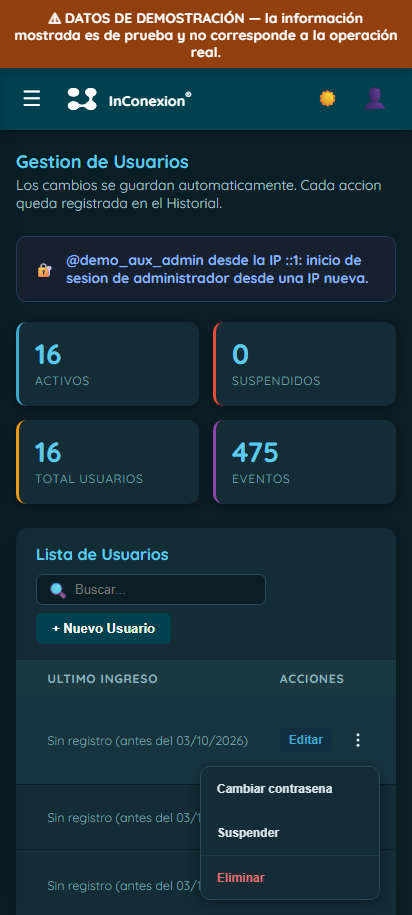
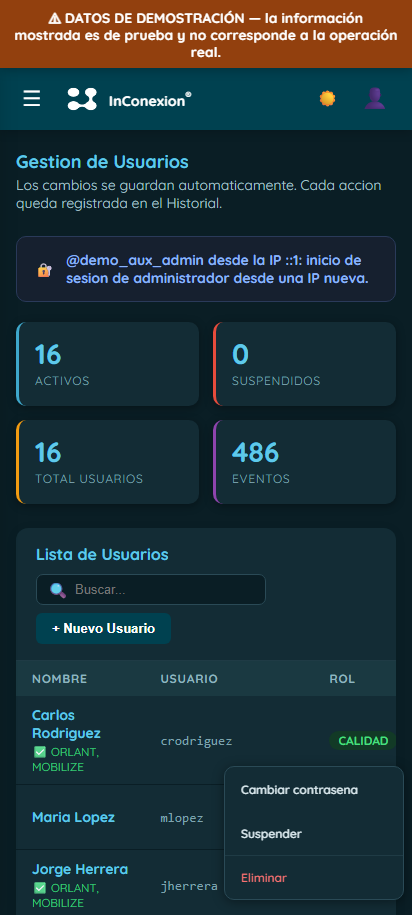
Fase 137 (Parte B, F07): 2 retoques del "OK F07"
1) .row-actions-menu-item gana font-family:inherit -- sin esto, un
<button> toma la fuente por defecto del navegador, no Quicksand (se
notaba en las capturas, texto en otra letra y mas grueso que el resto
de la interfaz).

2) El menu (position:fixed, calculado UNA vez contra el boton al
abrirse) se cierra al hacer scroll de la pagina/.table-wrap o al
redimensionar la ventana -- si no, se queda flotando lejos de su fila
real. Nueva prueba que falla sin el cambio (confirmado con git stash:
corre en rojo contra el row-actions.js de antes, en verde con el
fix).

Hallazgo real al recapturar en movil: el fix de (2) cerraba el menu
que se acababa de abrir, porque enfocar el primer item disparaba el
scroll-para-revelar del navegador sobre .table-wrap (el item sigue
viviendo en el DOM ahi, aunque el menu se vea en otro lugar via
position:fixed) -- el propio listener nuevo atrapaba ese scroll y
cerraba el menu en el mismo instante. Corregido con
{preventScroll:true} en todos los .focus() de este archivo.

Confirmado ademas que un clic real (sin el scrollIntoViewIfNeeded
previo que SOLO hace Playwright antes de un clic automatizado, un
clic humano real nunca lo hace) nunca dispara ese problema -- un
script de diagnostico aparte lo probo clic por clic.

9 capturas recapturadas (claro/oscuro x escritorio/movil, menu
abierto) -- revisadas una por una, letra consistente con el resto de
la interfaz. 18 pruebas en verde (1 nueva de scroll/resize).
[…]

diff --git a/public/js/row-actions.js b/public/js/row-actions.js
@@ -56,14 +56,24 @@ function rowActionsAbrir(boton) {
   ROW_ACTIONS_ABIERTO = { menu: menu, boton: boton };
 }
 
+// {preventScroll:true} en TODOS los .focus() de este archivo (hallazgo
+// real al re-capturar el "OK F07" en movil, con el fix de cerrar en
+// scroll ya puesto): el menu es position:fixed, ya esta bien
+// posicionado en pantalla -- pero su HIJO real sigue viviendo en el DOM
+// dentro de .table-wrap (que tiene su propio scroll horizontal). Sin
+// preventScroll, el navegador intenta "revelar" el elemento recien
+// enfocado desplazando .table-wrap (aunque ya se vea bien, fijo, en
+// otro lugar de la pantalla) -- ese scroll disparaba el listener nuevo
+// de scroll/resize y cerraba el menu que se acababa de abrir y
+// enfocar, en el mismo instante.
 function rowActionsEnfocarPrimero(menu) {
   var item = menu.querySelector ? menu.querySelector('[role="menuitem"]') : null;
-  if (item && item.focus) item.focus();
+  if (item && item.focus) item.focus({ preventScroll: true });
 }
 function rowActionsEnfocarUltimo(menu) {
   var items = menu.querySelectorAll ? menu.querySelectorAll('[role="menuitem"]') : [];
   var last = items[items.length - 1];
-  if (last && last.focus) last.focus();
+  if (last && last.focus) last.focus({ preventScroll: true });
 }
 
 // Clic en el boton kebab: si su menu ya esta abierto, actua como cierre
@@ -101,11 +111,11 @@ function rowActionsTecladoMenu(e, menu) {
   if (k === 'ArrowDown' || k === 'Down') {
     if (e.preventDefault) e.preventDefault();
     var next = items[(idx + 1 + items.length) % items.length];
-    if (next) next.focus();
+    if (next) next.focus({ preventScroll: true });
   } else if (k === 'ArrowUp' || k === 'Up') {
     if (e.preventDefault) e.preventDefault();
     var prev = items[(idx - 1 + items.length) % items.length];
-    if (prev) prev.focus();
+    if (prev) prev.focus({ preventScroll: true });
   } else if (k === 'Home') {
     if (e.preventDefault) e.preventDefault();
     rowActionsEnfocarPrimero(menu);
@@ -135,6 +145,22 @@ if (typeof document !== 'undefined') {
     if (m.contains(e.target) || b.contains(e.target)) return;
     rowActionsCerrarTodos();
   });
+}
+
+// Hallazgo real (revision del usuario sobre el PR 8 original de este
+// mismo archivo): el menu es position:fixed (ver rowActionsPosicionar,
+// arriba) -- su posicion se calcula UNA vez, al abrirse, contra el
+// boton que lo disparo. Si la pagina (o .table-wrap, que tiene su
+// propio scroll horizontal) se desplaza, o la ventana cambia de
+// tamano, el menu se queda flotando en el mismo lugar de la pantalla,
+// lejos de la fila real. Mas simple y mas seguro que reposicionarlo en
+// cada evento: cerrarlo. `scroll` no hace bubble, pero SI se puede
+// capturar en la fase de captura de `window` sin importar en que
+// elemento anidado (como .table-wrap) haya ocurrido -- por eso el
+// `true` final (useCapture), no un listener normal.
+if (typeof window !== 'undefined') {
+  window.addEventListener('scroll', function () { rowActionsCerrarTodos(); }, true);
+  window.addEventListener('resize', function () { rowActionsCerrarTodos(); });
 }
 
 // Doble modo: global en el navegador, require() en Node para pruebas.

diff --git a/server/tests/fase137-f07-menu-acciones-usuarios.test.js b/server/tests/fase137-f07-menu-acciones-usuarios.test.js
@@ -93,6 +93,14 @@ test('CSS: .row-actions-menu usa --dur-fast/--ease-out, solo opacity/transform (
   assert.match(texto, /html\[data-motion="off"\] \*, html\[data-motion="off"\] \*::before, html\[data-motion="off"\] \*::after/);
 });
 
+test('CSS: .row-actions-menu-item usa font-family:inherit -- sin esto, un <button> toma la fuente por defecto del navegador, no Quicksand', async () => {
+  const res = await request(app).get('/css/styles.css');
+  const texto = res.text;
+  const regla = texto.match(/\.row-actions-menu-item\{([^}]*)\}/);
+  assert.ok(regla, 'deberia existir la regla .row-actions-menu-item');
+  assert.match(regla[1], /font-family:inherit/);
+});
+
 test('CSS: objetivos tactiles >=44px en movil para el boton kebab y cada item del menu (F07, WCAG 2.5.8)', async () => {
   const res = await request(app).get('/css/styles.css');
   const texto = res.text;
@@ -296,4 +304,48 @@ test('rowActionsTecladoBoton: Enter/Espacio/ArrowDown en el boton abren el menu 
   assert.equal(dom.documentoFalso.activeElement, item1);
 
   delete global.document;
+});
+
+// Hallazgo real tras revisar las capturas del "OK F07": el menu es
+// position:fixed, calculado UNA vez contra el boton al abrirse -- si la
+// pagina (o .table-wrap, que tiene su propio scroll horizontal) se
+// desplaza, o la ventana cambia de tamano, queda flotando lejos de su
+// fila real. Se cierra en vez de reposicionarse.
+function construirVentanaFalsa() {
+  var handlers = {};
+  return {
+    addEventListener: function (tipo, fn, _useCapture) {
+      handlers[tipo] = handlers[tipo] || [];
+      handlers[tipo].push(fn);
+    },
+    disparar: function (tipo) { (handlers[tipo] || []).forEach((fn) => fn({})); },
+  };
+}
+
+test('scroll/resize de la ventana cierran cualquier menu abierto (el menu es position:fixed, no se reposiciona solo)', () => {
+  var dom = construirDomFalso();
+  global.document = dom.documentoFalso;
+  var ventanaFalsa = construirVentanaFalsa();
+  global.window = ventanaFalsa;
+  var mod = cargarRowActions();
+
+  var menu = new dom.ElementoFalso({ id: 'menuScroll' });
+  var boton = new dom.ElementoFalso({ id: 'kebabScroll' });
+  boton.setAttribute('aria-controls', 'menuScroll');
+
+  mod.rowActionsAbrir(boton);
+  assert.equal(menu.classList.contains('row-actions-menu-show'), true, 'precondicion: el menu deberia quedar abierto');
+
+  ventanaFalsa.disparar('scroll');
+  assert.equal(menu.classList.contains('row-actions-menu-show'), false, 'un scroll de la pagina/.table-wrap deberia cerrar el menu abierto');
+  assert.equal(boton.getAttribute('aria-expanded'), 'false');
+
+  // Vuelve a abrir para probar resize por separado.
+  mod.rowActionsAbrir(boton);
+  assert.equal(menu.classList.contains('row-actions-menu-show'), true);
+  ventanaFalsa.disparar('resize');
+  assert.equal(menu.classList.contains('row-actions-menu-show'), false, 'redimensionar la ventana deberia cerrar el menu abierto');
+
+  delete global.document;
+  delete global.window;
 });

diff --git a/public/css/styles.css b/public/css/styles.css
@@ -557,7 +557,7 @@ tbody td{padding:10px 16px;font-size:var(--fs-body);color:var(--c-text);}
   transition:opacity var(--dur-fast) var(--ease-out),transform var(--dur-fast) var(--ease-out);}
 .row-actions-menu.row-actions-menu-show{opacity:1;transform:scale(1);pointer-events:auto;}
 .row-actions-menu-item{display:block;width:100%;text-align:left;padding:10px 14px;
-  border:none;background:none;cursor:pointer;font-size:var(--fs-note);font-weight:600;color:var(--c-text);}
+  border:none;background:none;cursor:pointer;font-family:inherit;font-size:var(--fs-note);font-weight:600;color:var(--c-text);}
 .row-actions-menu-item:hover,.row-actions-menu-item:focus-visible{background:var(--c-surface-subtle);}
 .row-actions-menu-item.danger{color:var(--c-danger-dark);border-top:1px solid var(--c-border-soft2);}
 .row-actions-menu-item.danger:hover,.row-actions-menu-item.danger:focus-visible{background:var(--c-danger-bg);}

diff --git a/docs/pendientes.md b/docs/pendientes.md
@@ -172,6 +172,17 @@ dueño, prioridad, cómo se cierra, y la fecha en que se anotó.
 
 ## 3. Esperando decisión de InCo
 
+- **`.github/workflows/fase134-dry-run.yml` sin subir al repo** — el
+  workflow del dry-run de la Fase 134 (toca AWS/SSH: abre el puerto 22
+  del servidor para correr el script contra una copia del último
+  respaldo) quedó escrito pero nunca se commiteó (ver Fase 137, Parte A,
+  PR #381). CLAUDE.md pide consultar ANTES de tocar cualquier workflow
+  nuevo o existente, sin excepción de "ya reutiliza un mecanismo ya
+  auditado" — así que sigue fuera del repo. Prioridad BAJA (la migración
+  que este dry-run habría probado ya se desplegó y se verificó sin
+  pérdida de datos). Cómo se cierra: decides si quieres que se suba (el
+  script en sí ya fue revisado, solo imprime conteos, nunca una fila
+  real) o si prefieres que se descarte del todo.
 - **Flujo Mensual**: ¿se retira del todo (código + pestaña oculta) o se
   deja esperando? Prioridad BAJA. Anotado Fase 115 (2026-09-21), sigue
   sin decidirse.
